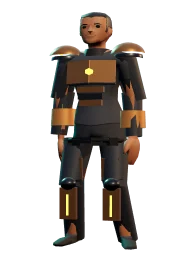
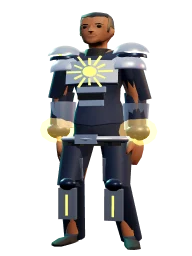
t431: Colosso com armadura marinho/prata e sol dourado; novo herói Atlas Índigo (onda de choque dourada derruba objetos); teste t431

Changed region(s): [[0.1875, 0.1562, 0.8438, 1.0], [0.4375, 0.0312, 0.625, 0.1562], [0.4375, 0.0312, 0.5, 0.0625]]

diff --git a/src/heroes.js b/src/heroes.js
@@ -65,6 +65,22 @@ function helmet(model, k, shell, visor, open) {
   return attach(model, 'Head', g, [0, 0.11, 0.005], k);
 }
 
+// t431: traje de titã (gigantes): armadura marinho/grafite com placas prata, emblema de sol dourado e energia dourada nos punhos — desenho próprio
+export function titanSuit(model, k, o = {}) {
+  tacArmor(model, k, { plate: o.plate ?? 0xb9c0c8, trim: o.trim ?? 0x1c2a44, glow: 0xffc44d, pm: 0.92, pr: 0.22, suit: o.suit ?? 0x1c2a44, core: false });
+  const silver = M(0xc9ced6, { metalness: 0.95, roughness: 0.2 }), sun = GLOW(0xffc44d, 2.6), navy = M(o.suit ?? 0x1c2a44, { metalness: 0.5, roughness: 0.4 });
+  // emblema de sol: disco + 12 raios finos alternados (desenho próprio)
+  const em = grp(mesh(new THREE.CylinderGeometry(0.038, 0.038, 0.02, 16), sun, 0, 0, 0, Math.PI / 2));
+  for (let i = 0; i < 12; i++) { const a = i / 12 * Math.PI * 2, L = i % 2 ? 0.05 : 0.08; em.add(mesh(box(0.012, L, 0.012), sun, Math.cos(a) * (0.05 + L / 2), Math.sin(a) * (0.05 + L / 2), 0, 0, 0, a - Math.PI / 2)); }
+  attach(model, 'Torso', em, [0, 0.17, 0.162], k);
+  // ombreiras prata grandes por cima, cinto prata com placa central
+  for (const s of [1, -1]) { const sh = grp(mesh(new THREE.SphereGeometry(0.115, 14, 8, 0, Math.PI * 2, 0, Math.PI * 0.55), silver), mesh(box(0.012, 0.012, 0.16), sun, s * 0.06, 0.045, 0)); sh.scale.set(1, 0.7, 1); attach(model, s > 0 ? 'UpperArmL' : 'UpperArmR', sh, [s * -0.01, -0.06, 0], k); }
+  attach(model, 'Hips', grp(mesh(new THREE.TorusGeometry(0.175, 0.026, 6, 24), silver, 0, 0, 0, Math.PI / 2), mesh(box(0.12, 0.07, 0.03), silver, 0, 0, 0.18)), [0, 0.1, 0], k);
+  // manoplas prata e energia dourada em volta dos punhos
+  const fx = new THREE.MeshBasicMaterial({ color: 0xffc44d, transparent: true, opacity: 0.55, blending: THREE.AdditiveBlending, depthWrite: false, toneMapped: false });
+  for (const s of ['L', 'R']) { attach(model, 'LowerArm' + s, mesh(new THREE.CylinderGeometry(0.075, 0.065, 0.2, 10), silver), [0, -0.15, 0], k); attach(model, 'Palm' + s, grp(mesh(new THREE.SphereGeometry(0.07, 10, 8), navy), mesh(new THREE.IcosahedronGeometry(0.11, 1), fx)), [0, 0.04, 0], k); }
+}
+
 export const HEROES = {
   teia: {
     id: 'teia', label: 'Vértice', name: 'Ágil e escaladora', base: 'ela', height: 1.72, power: 'teia', emoji: '🪝',
@@ -100,14 +116,11 @@ export const HEROES = {
     },
   },
   colosso: {
-    id: 'colosso', label: 'Colosso', name: 'Gigante gentil', base: 'ele', height: 2.3, bulk: 1.28, power: 'forca', emoji: '💪',
+    id: 'colosso', label: 'Colosso', name: 'Gigante gentil', base: 'ele', height: 2.35, bulk: 1.36, power: 'forca', emoji: '💪',
     powerTxt: 'super pulo e levanta carros (com cuidado, sem estragar nada)',
-    colors: { Shirt: 0x2c3138, Pants: 0x23272d, Socks: 0x2c3138, Hair: 0x14110e, Eyes: 0x1a1a1a, Skin: 0x8d5a3b },
-    fallback: { skin: 0x8d5a3b, shirt: 0x2c3138, pants: 0x23272d, hair: 0x14110e, stripe: 0xb8793a },
-    gear(model, k) {
-      tacArmor(model, k, { plate: 0x7a5530, trim: 0x2c3138, glow: 0xffb347, pm: 0.7, pr: 0.38, suit: 0x2c3138 });
-      for (const s of ['L', 'R']) attach(model, 'LowerArm' + s, mesh(new THREE.CylinderGeometry(0.075, 0.08, 0.13, 10), M(0xb8793a, { metalness: 0.6, roughness: 0.35 })), [0, -0.17, 0], k);
-    },
+    colors: { Shirt: 0x1c2a44, Pants: 0x18233a, Socks: 0x1c2a44, Hair: 0x14110e, Eyes: 0x1a1a1a, Skin: 0x8d5a3b },
+    fallback: { skin: 0x8d5a3b, shirt: 0x1c2a44, pants: 0x18233a, hair: 0x14110e, stripe: 0xc9ced6 },
+    gear(model, k) { titanSuit(model, k); },
   },
   sentinela: {
     id: 'sentinela', label: 'Sentinela', name: 'Escudo e impulso', base: 'ele', height: 1.82, power: 'escudo', emoji: '🛡',
@@ -151,6 +164,20 @@ export const HEROES = {
       model.userData.gauntlet = attach(model, 'LowerArmR', g, [0, -0.1, 0], k);
     },
   },
+  atlas: {
+    id: 'atlas', label: 'Atlas Índigo', name: 'Onda de choque dourada', base: 'ele', height: 2.4, bulk: 1.34, power: 'onda', emoji: '🌅',
+    powerTxt: 'pisão que solta uma onda de choque dourada e derruba postes, guarda-sóis e palmeiras (ninguém se machuca)',
+    colors: { Shirt: 0x1a2440, Pants: 0x161f36, Socks: 0x1a2440, Hair: 0x141826, Eyes: 0xdfe5ee, Skin: 0x3f5fa8 },
+    fallback: { skin: 0x3f5fa8, shirt: 0x1a2440, pants: 0x161f36, hair: 0x141826, stripe: 0xffc44d },
+    gear(model, k) {
+      const skin = M(0x3f5fa8, { roughness: 0.55 });
+      titanSuit(model, k, { suit: 0x1a2440 });
+      // rosto próprio: queixo quadrado, olhos prata e cicatriz na sobrancelha esquerda
+      attach(model, 'Head', mesh(box(0.15, 0.06, 0.08), skin), [0, -0.005, 0.085], k);
+      const eye = GLOW(0xe6ecf5, 1.2); for (const s of [-1, 1]) attach(model, 'Head', mesh(box(0.03, 0.012, 0.01), eye), [s * 0.045, 0.1, 0.132], k);
+      attach(model, 'Head', mesh(box(0.008, 0.045, 0.01), M(0x8fa6d8, { roughness: 0.4 }), 0, 0, 0, 0, 0, 0.35), [0.05, 0.125, 0.132], k);
+    },
+  },
 };
 // ajustes de material: brilho metálico e partes que brilham
 export function heroMaterials(H, mats) {
@@ -162,7 +189,7 @@ export function heroMaterials(H, mats) {
 
 // ---- "traje nano-metal": roupa tecnológica metálica escura com linhas de luz (estilo próprio de Solara) para todos os personagens jogáveis
 const SUIT_CLOTH = ['Shirt', 'Pants', 'Socks', 'Shoes']; const SUIT_SKIN = new Set(['teia', 'solar']);
-export const SUIT_GLOW = { ela: 0xff4f8b, ele: 0x19e3ff, teia: 0x9cff3a, solar: 0xffd23f, colosso: 0x7dff6a, sentinela: 0x4fb3ff, ferreo: 0xff6a2a, tita: 0xb36bff };
+export const SUIT_GLOW = { ela: 0xff4f8b, ele: 0x19e3ff, teia: 0x9cff3a, solar: 0xffd23f, colosso: 0xffc44d, sentinela: 0x4fb3ff, ferreo: 0xff6a2a, tita: 0xb36bff, atlas: 0xffc44d };
 export function nanoSuit(A, model, mats, k) {
   const glow = SUIT_GLOW[A.id] ?? 0x29f0ff; const hsl = {};
   for (const m of mats) {

diff --git a/src/loadman.js b/src/loadman.js
@@ -1,2 +1,2 @@
 // gerado por tools/loadman.py (t428) — não editar à mão
-export const LOADMAN = {"total":1953226,"files":[["src/flyover.js",12891],["vendor/three/three.module.min.js",691648],["src/loadman.js",2286],["src/main.js",101399],["vendor/three/addons/postprocessing/EffectComposer.js",4651],["vendor/three/addons/shaders/CopyShader.js",571],["vendor/three/addons/postprocessing/ShaderPass.js",1576],["vendor/three/addons/postprocessing/Pass.js",1706],["vendor/three/addons/postprocessing/MaskPass.js",2231],["vendor/three/addons/postprocessing/RenderPass.js",1941],["vendor/three/addons/postprocessing/UnrealBloomPass.js",12410],["vendor/three/addons/shaders/LuminosityHighPassShader.js",1147],["vendor/three/addons/postprocessing/OutputPass.js",2524],["vendor/three/addons/shaders/OutputShader.js",1490],["src/util.js",6211],["src/world.js",75432],["src/env.js",17968],["vendor/three/addons/objects/Sky.js",6819],["src/frota.js",10095],["src/vehicles.js",71931],["vendor/three/addons/utils/BufferGeometryUtils.js",31768],["src/palmbreak.js",8045],["src/breakables.js",16365],["src/marraces.js",17323],["src/boatrace.js",14056],["src/radio.js",6137],["src/radiolines.js",11583],["src/voice.js",4703],["src/phrases.js",20320],["src/outdoor.js",13262],["src/gauchos.js",4298],["src/people.js",28856],["src/life.js",16105],["src/avatar.js",9028],["src/heroes.js",15543],["src/wardrobe.js",30098],["src/device.js",1325],["src/traffic.js",6297],["src/audio.js",16696],["src/missions.js",21114],["src/rivals.js",7072],["src/garage.js",6566],["src/heli.js",37069],["src/ui.js",26470],["src/recorder.js",9084],["src/install.js",3685],["src/plane.js",21273],["src/talk.js",15658],["src/powers.js",14748],["src/track.js",22144],["src/race.js",22362],["src/driveui.js",22059],["src/fx.js",10843],["src/home.js",18634],["src/bailout.js",14358],["src/jetpack.js",5827],["src/signature.js",8095],["src/serpentina.js",24445],["src/seabridge.js",46693],["src/bridgefun.js",21930],["src/islands.js",30717],["src/megagarage.js",21258],["src/boutique.js",31025],["src/paintshop.js",23101],["src/gpsosm.js",18894],["src/beachlife.js",19469],["src/orla.js",58807],["src/versions.js",2527],["src/birds.js",6316],["src/gifts.js",13371],["src/street.js",35872],["src/topbar.js",7101],["src/msgguard.js",5904]]};
+export const LOADMAN = {"total":1958339,"files":[["src/flyover.js",12891],["vendor/three/three.module.min.js",691648],["src/loadman.js",2286],["src/main.js",101399],["vendor/three/addons/postprocessing/EffectComposer.js",4651],["vendor/three/addons/shaders/CopyShader.js",571],["vendor/three/addons/postprocessing/ShaderPass.js",1576],["vendor/three/addons/postprocessing/Pass.js",1706],["vendor/three/addons/postprocessing/MaskPass.js",2231],["vendor/three/addons/postprocessing/RenderPass.js",1941],["vendor/three/addons/postprocessing/UnrealBloomPass.js",12410],["vendor/three/addons/shaders/LuminosityHighPassShader.js",1147],["vendor/three/addons/postprocessing/OutputPass.js",2524],["vendor/three/addons/shaders/OutputShader.js",1490],["src/util.js",6211],["src/world.js",75432],["src/env.js",17968],["vendor/three/addons/objects/Sky.js",6819],["src/frota.js",10095],["src/vehicles.js",71931],["vendor/three/addons/utils/BufferGeometryUtils.js",31768],["src/palmbreak.js",8045],["src/breakables.js",16365],["src/marraces.js",17323],["src/boatrace.js",14056],["src/radio.js",6137],["src/radiolines.js",11583],["src/voice.js",4703],["src/phrases.js",20320],["src/outdoor.js",13262],["src/gauchos.js",4298],["src/people.js",28856],["src/life.js",16105],["src/avatar.js",9028],["src/heroes.js",18398],["src/wardrobe.js",30434],["src/device.js",1325],["src/traffic.js",6297],["src/audio.js",16696],["src/missions.js",21114],["src/rivals.js",7072],["src/garage.js",6566],["src/heli.js",37069],["src/ui.js",26470],["src/recorder.js",9084],["src/install.js",3685],["src/plane.js",21273],["src/talk.js",15658],["src/powers.js",16490],["src/track.js",22144],["src/race.js",22362],["src/driveui.js",22059],["src/fx.js",10843],["src/home.js",18634],["src/bailout.js",14358],["src/jetpack.js",5827],["src/signature.js",8275],["src/serpentina.js",24445],["src/seabridge.js",46693],["src/bridgefun.js",21930],["src/islands.js",30717],["src/megagarage.js",21258],["src/boutique.js",31025],["src/paintshop.js",23101],["src/gpsosm.js",18894],["src/beachlife.js",19469],["src/orla.js",58807],["src/versions.js",2527],["src/birds.js",6316],["src/gifts.js",13371],["src/street.js",35872],["src/topbar.js",7101],["src/msgguard.js",5904]]};

diff --git a/test/t431.js b/test/t431.js
@@ -1,0 +1,38 @@
+// t431: Colosso novo + Atlas Índigo (cartão no menu, loja de trajes, poder onda dourada derruba objetos)
+const puppeteer = require('puppeteer-core');
+const [,, W = 1440, H = 900, q = 'low', out = 'd'] = process.argv; const mobile = +W < 600;
+const PORT = process.env.PORT || 8765, KEY = process.env.KEY || 'mbd-solara-v1';
+const sleep = ms => new Promise(r => setTimeout(r, ms)); const R = {};
+(async () => {
+  const b = await puppeteer.launch({ executablePath: '/usr/bin/google-chrome', headless: 'new', args: ['--no-sandbox', '--disable-dev-shm-usage', '--use-angle=swiftshader', '--use-gl=angle', '--enable-unsafe-swiftshader', '--autoplay-policy=no-user-gesture-required'] });
+  const p = await b.newPage(); await p.setViewport({ width: +W, height: +H, isMobile: mobile, hasTouch: mobile, deviceScaleFactor: mobile ? 2 : 1 });
+  const errs = []; p.on('pageerror', e => errs.push('PAGE: ' + e.message)); p.on('console', m => { if (m.type() === 'error') errs.push(m.text()); });
+  await p.goto(`http://localhost:${PORT}/?q=${q}`, { waitUntil: 'load' });
+  await p.waitForFunction('window.MBD_READY === true', { timeout: 150000 });
+  const until = async (fn, ms = 30000) => { try { await p.waitForFunction(fn, { timeout: ms, polling: 200 }); return true; } catch (e) { return false; } };
+  R.cards = await p.evaluate(() => [...document.querySelectorAll('#avPick .avCard')].map(c => c.dataset.av).filter(a => a === 'atlas' || a === 'colosso'));
+  R.atlasImg = await p.evaluate(() => { const c = document.querySelector('#avPick .avCard[data-av="atlas"]'); return c ? c.textContent.replace(/\s+/g, ' ').trim() : null; });
+  await p.evaluate(() => document.querySelector('#avPick .avCard[data-av="atlas"]').scrollIntoView({ inline: 'center', block: 'nearest' }));
+  await p.click('#avPick .avCard[data-av="atlas"]'); await sleep(300);
+  R.saved = await p.evaluate((k) => JSON.parse(localStorage.getItem(k)).avatar, KEY);
+  await p.screenshot({ path: `/workspace/t361-prints/t431-${out}-menu.png` });
+  await p.click('#play'); await until('MBD.state.avatar3d === true && MBD.state.fps > 0', 60000);
+  R.avatar = await p.evaluate(() => MBD.state.avatar);
+  R.store = await p.evaluate(async () => { const w = await import('/src/wardrobe.js'); const s = JSON.stringify(Object.keys(w).map(k => typeof w[k] === 'object' ? Object.keys(w[k]).join(',') : '')); return /atlas/.test(s); });
+  const pole = await p.evaluate(() => { for (const a of __G.breaks.grid.values()) for (const o of a) if (!o.down && (o.kind === 'poste' || o.kind === 'sinal') && o.x != null) return { x: o.x, z: o.z, kind: o.kind }; return null; });
+  R.pole = pole && pole.kind;
+  const c0 = await p.evaluate(() => Object.values(__G.breaks.count).reduce((a, b) => a + b, 0) + __G.palms.count);
+  await p.evaluate((o) => { MBD.setHour(10.5); MBD.teleport(o.x + 4, o.z + 1, 0); }, pole); await sleep(1200);
+  await until('MBD.state.grounded === true', 15000);
+  await (mobile ? p.tap('#bPow') : p.keyboard.press('KeyX'));
+  R.knockedOk = false; for (let i = 0; i < 90 && !R.knockedOk; i++) { await sleep(500); R.knockedOk = await p.evaluate(() => (MBD.powers().knocked || 0) > 0); } R.waitS = 'ok';
+  await sleep(500); await p.evaluate(() => { __G.camYaw = __G.player.h + 2.6; __G.camPitch = 0.12; }); await sleep(700);
+  await p.screenshot({ path: `/workspace/t361-prints/t431-${out}-onda.png` });
+  R.knocked = await p.evaluate(() => MBD.powers().knocked); R.err = await p.evaluate(() => MBD.powers().err || null);
+  R.broke = (await p.evaluate(() => Object.values(__G.breaks.count).reduce((a, b) => a + b, 0) + __G.palms.count)) - c0;
+  await p.evaluate(() => MBD.avatar('colosso')); R.colosso = await until('MBD.state.avatar === "colosso" && MBD.state.avatar3d', 20000);
+  await sleep(800); await p.screenshot({ path: `/workspace/t361-prints/t431-${out}-colosso.png` });
+  R.errs = errs.filter(e => !/favicon|404/.test(e));
+  const ok = R.cards.length === 2 && R.saved === 'atlas' && R.avatar === 'atlas' && R.store && R.knockedOk && R.broke > 0 && !R.err && R.colosso && !R.errs.length;
+  console.log(JSON.stringify(R)); console.log(ok ? 'PASS t431' : 'FAIL t431'); await b.close(); process.exit(ok ? 0 : 1);
+})().catch(e => { console.log('FAIL t431', e.message); process.exit(1); });

diff --git a/src/powers.js b/src/powers.js
@@ -61,6 +61,7 @@ export class Powers {
     else if (k === 'teia') { const a = anchorAhead(p.x, p.z, fx, fz); this.anchor = a; this.swing = 1.15; p.vy = 7.5; p.vx = fx * 15; p.vz = fz * 15; p.grounded = false; this.cool = 0.6; this.hint('teia', '🕸 <b>Fio neon!</b> Ande contra um prédio para escalar'); }
     else if (k === 'turbo') { this.dash = 1.1; this.turbo = true; p.vx = fx * 17; p.vz = fz * 17; this.cool = 1.4; this.hint('turbo', '⚡ <b>Turbo do traje!</b> arrancada de luz'); this.ring(p.x, p.y + 0.3, p.z, 0xff4f8b, 2.5, 0.4); }
     else if (k === 'escudo') { this.dash = 0.45; p.vx = fx * 19; p.vz = fz * 19; this.cool = 0.8; this.hint('esc', '🛡 <b>Arrancada!</b> Bata numa parede para o escudo quicar'); }
+    else if (k === 'onda') { if (p.grounded) { p.vy = 7; p.grounded = false; } this.slam = 1; this.cool = 1.4; this.hint('onda', '🌅 <b>Onda de choque dourada</b> · derruba postes e guarda-sóis, ninguém se machuca'); }
     else if (k === 'impacto') { if (p.grounded) { p.vy = 6.5; p.grounded = false; } this.slam = 1; this.cool = 1.2; this.hint('imp', '🟣 <b>Pisão de onda</b> · só luz e vento, ninguém se machuca'); }
     else if (k === 'forca') {
       if (this.carried) return this.toss(fx, fz), true;
@@ -126,6 +127,16 @@ export class Powers {
       if (c.wall) { const vn = p.vx * c.wall.x + p.vz * c.wall.z; if (vn < -2) { p.vx -= 1.7 * vn * c.wall.x; p.vz -= 1.7 * vn * c.wall.z; p.vy = 4.5; p.grounded = false; this.ring(p.x, p.y + 0.8, p.z, 0xffb14a, 2.5, 0.4); G.audio.thud && G.audio.thud(10); this.dash = 0.25; this.hint('bounce', '🛡 O escudo quicou!'); } }
       else if (p.grounded) { const sp = Math.hypot(p.vx, p.vz); if (sp < 15) { const s = 19 / Math.max(1, sp); p.vx *= s; p.vz *= s; } }
       if (this.dash <= 0) { p.vx *= 0.5; p.vz *= 0.5; }
+    }
+    if (k === 'onda' && this.slam) { // t431: Atlas Índigo — onda dourada derruba objetos em volta (postes, semáforos, guarda-sóis, palmeiras, tábuas)
+      if (!p.grounded && p.vy < 2) p.vy = Math.min(p.vy, -18);
+      if (p.grounded && p.jumpT > 0.15) { this.slam = 0; this.ring(p.x, gy, p.z, 0xffc44d, 18, 1.0); this.ring(p.x, gy + 0.2, p.z, 0xfff1b8, 10, 0.7); G.shake && G.shake(0.6); G.audio.thud && G.audio.thud(22);
+        const R = 14; this.knocked = 0;
+        const fake = (x, z) => { const dx = x - p.x, dz = z - p.z, d = Math.hypot(dx, dz) || 1; return { x: p.x, z: p.z, y: p.y, vx: dx / d * 9, vz: dz / d * 9, spec: {}, circles: () => [[p.x, p.z]] }; };
+        try { if (G.breaks) for (const o of G.breaks.near(p.x, p.z, R)) { const ox = o.x ?? (o.x0 + o.x1) / 2, oz = o.z ?? (o.z0 + o.z1) / 2; if (Math.hypot(ox - p.x, oz - p.z) > R) continue; const f = fake(ox, oz); if (o.kind === 'tabua') G.breaks.breakDeck(o, f, 9); else if (o.kind === 'guarda-sol') G.breaks.breakUmb(o, f, 9); else G.breaks.breakPole(o, f, 9); this.knocked++; } } catch (e) { this.err = String(e); }
+        try { if (G.palms && G.palms.near) for (const pm of G.palms.near(p.x, p.z, R * 0.8)) { G.palms.breakPalm(pm, fake(pm.x, pm.z), 9); this.knocked++; } } catch (e) { this.err = String(e); }
+        for (const v of G.vehicles) { const d = Math.hypot(v.x - p.x, v.z - p.z); if (d < R && !v.driver && !v.lifted && !v.spec.air) v.hop = Math.max(v.hop || 0, (R - d) / R * 0.6); }
+        this.cheer(p.x, p.z, 28); }
     }
     if (k === 'impacto' && this.slam) {
       if (!p.grounded && p.vy < 2) p.vy = Math.min(p.vy, -16);

diff --git a/src/wardrobe.js b/src/wardrobe.js
@@ -67,6 +67,7 @@ export const CIVIL = {
   colosso: { sex: 'm', hair: 0x14110e, eq: { top: 'm-guayabera', bottom: 'm-calca-linho-areia', shoes: 'u-espadrille' } },
   sentinela: { sex: 'm', eq: { top: 'm-polo-menta', bottom: 'm-alfaiataria-perola', shoes: 'm-sapatenis', hat: 'u-bone-linho' } },
   ferreo: { sex: 'm', skin: 0xd9a066, hair: 0x2c2c2c, eq: { top: 'm-camisa-palmeiras', bottom: 'm-calca-seda-noite', shoes: 'm-mocassim', hat: 'm-fedora' } },
+  atlas: { sex: 'm', skin: 0x3f5fa8, hair: 0x141826, eq: { top: 'm-camisa-linho', bottom: 'm-calca-seda-noite', shoes: 'm-mocassim', glasses: 'u-aviador' } },
   tita: { sex: 'm', eq: { top: 'm-cubana-coral', bottom: 'm-chino-branco', shoes: 'u-espadrille', glasses: 'u-redondo' } },
 };
 export const sexOf = (id) => (CIVIL[id] && CIVIL[id].sex) || 'f';
@@ -94,6 +95,7 @@ const SRAW = [
   ['colosso-coral', 'colosso', 'Colosso Titânio Coral', 'coral', 'escudo', 0xffd27a, 5000], ['colosso-lunar', 'colosso', 'Colosso Ferro-Lunar', 'lunar', 'velocidade', 0x7dff6a, 4600],
   ['sentinela-cobalto', 'sentinela', 'Sentinela Cobalto Alado', 'cobalto', 'voo', 0x4fb3ff, 6000], ['sentinela-nano', 'sentinela', 'Sentinela Nano-Relâmpago', 'nano', 'velocidade', 0x4ff7e0, 4400],
   ['ferreo-obsidiana', 'ferreo', 'Férreo Obsidiana Voadora', 'obsidiana', 'voo', 0x7dff9a, 6200], ['ferreo-aurilio', 'ferreo', 'Férreo Aurílio Blindado', 'aurilio', 'escudo', 0xffb14a, 5400],
+  ['atlas-cobalto', 'atlas', 'Atlas Cobalto Estelar', 'cobalto', 'escudo', 0xffc44d, 5800], ['atlas-lunar', 'atlas', 'Atlas Ferro-Lunar Alado', 'lunar', 'voo', 0xffd27a, 6800],
   ['tita-boreal', 'tita', 'Titã Cristal Boreal', 'boreal', 'velocidade', 0xb36bff, 4800], ['tita-nano', 'tita', 'Titã Nano-Cometa', 'nano', 'voo', 0xff5fd2, 6600],
   ['nano-solara', '*', 'Nano-Metal Solara', 'nano', 'escudo', 0x29f0ff, 2500], ['aurilio-asa', '*', 'Asa-Sol de Aurílio', 'aurilio', 'voo', 0xffd27a, 6000], ['lunar-corrida', '*', 'Ferro-Lunar Corrida', 'lunar', 'velocidade', 0xff4f8b, 3800],
 ];

diff --git a/src/signature.js b/src/signature.js
@@ -10,9 +10,10 @@ export const SIGNATURE = {
   ele: { type: 'moto', name: 'Raio Ciano', tune: { paint: 0x19c3e6, accent: 0x111111, glow: 0x29f0ff, rim: 0x111111, text: 'DAVI', style: 1 } },
   teia: { type: 'moto', name: 'Moto Vértice', tune: { paint: 0x0f5f5a, accent: 0x9cff3a, glow: 0x9cff3a, rim: 0x111111, text: 'VÉRTICE', style: 2 } },
   solar: { type: 'rc_hyper', name: 'Hiper Solar', tune: { paint: 0xffc61a, accent: 0xffffff, glow: 0xff9a3c, rim: 0xffffff, text: 'SOLAR', style: 1, kit: true, spoiler: 0, num: 1 } },
-  colosso: { type: 'pickup', name: 'Caminhonete Colosso', tune: { paint: 0x2f9e44, accent: 0x1c1c1e, glow: 0x7dff6a, rim: 0x1a1a1a, text: 'COLOSSO', style: 0, spoiler: 0, kit: true } },
+  colosso: { type: 'pickup', name: 'Caminhonete Colosso', tune: { paint: 0x1c2a44, accent: 0xc9ced6, glow: 0xffc44d, rim: 0x1a1a1a, text: 'COLOSSO', style: 0, spoiler: 0, kit: true } },
   sentinela: { type: 'rc_muscle', name: 'Muscle Sentinela', tune: { paint: 0x1b2a4a, accent: 0xc8ccd0, glow: 0x4fb3ff, rim: 0xc8ccd0, text: 'SENTINELA', style: 0, kit: true, spoiler: 0, num: 5 } },
   ferreo: { type: 'rc_gt', name: 'GT Férreo', tune: { paint: 0x3a3d44, accent: 0xff6a2a, glow: 0xff6a2a, rim: 0x1a1a1a, text: 'FÉRREO', style: 2, kit: true, spoiler: 0, num: 8 } },
+  atlas: { type: 'pickup', name: 'Caminhonete Atlas', tune: { paint: 0x1a2440, accent: 0xc9ced6, glow: 0xffc44d, rim: 0xc9ced6, text: 'ATLAS', style: 0, spoiler: 0, kit: true } },
   tita: { type: 'rc_jdm', name: 'JDM Titã', tune: { paint: 0x5b2a9e, accent: 0xff4fb8, glow: 0xb36bff, rim: 0xff4fb8, text: 'TITÃ', style: 1, kit: true, spoiler: 0, num: 9 } },
 };
 export const sigOf = (id) => SIGNATURE[id] || SIGNATURE.ela;
